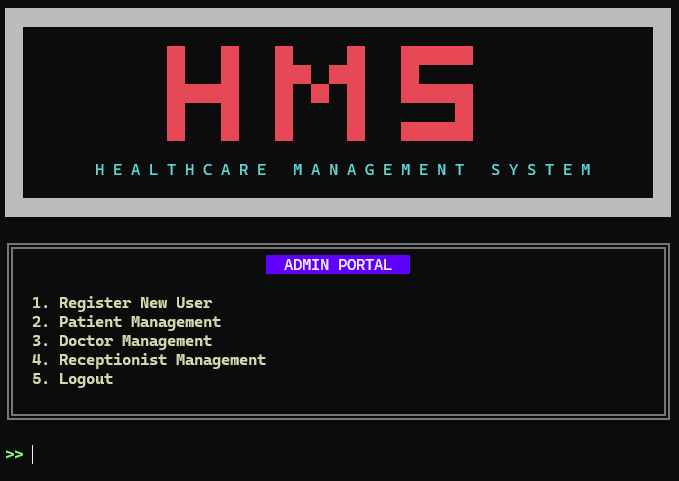
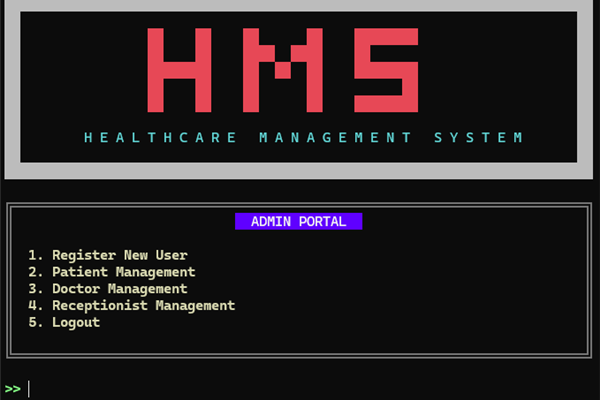
Update README

diff --git a/README.md b/README.md
@@ -9,18 +9,22 @@ A console-based Hospital Management System built in C. User-friendly interface.
 - **Doctor Management** - Coming soon
 - **Data Persistence** - File-based storage (coming soon)
 
-## Interface Desing
+## Interface Design
 
 > Beautiful ASCII art interface with colored console output
 
-### Main Menu
-![Main Menu](assets/screenshots/main_menu.png)
-
-### Admin Portal
-![Admin Portal](assets/screenshots/admin_portal.png)
-
-### CLI Usage
-![CLI Usage](assets/screenshots/cli_usage.png)
+<table>
+<tr>
+<td align="center"><b>Main Menu</b></td>
+<td align="center"><b>Admin Portal</b></td>
+<td align="center"><b>CLI Usage</b></td>
+</tr>
+<tr>
+<td><img src="assets/screenshots/main_menu.png" width="280" alt="Main Menu"></td>
+<td><img src="assets/screenshots/admin_portal.png" width="280" alt="Admin Portal"></td>
+<td><img src="assets/screenshots/cli_usage.png" width="280" alt="CLI Usage"></td>
+</tr>
+</table>
 
 ## Build & Run
 
